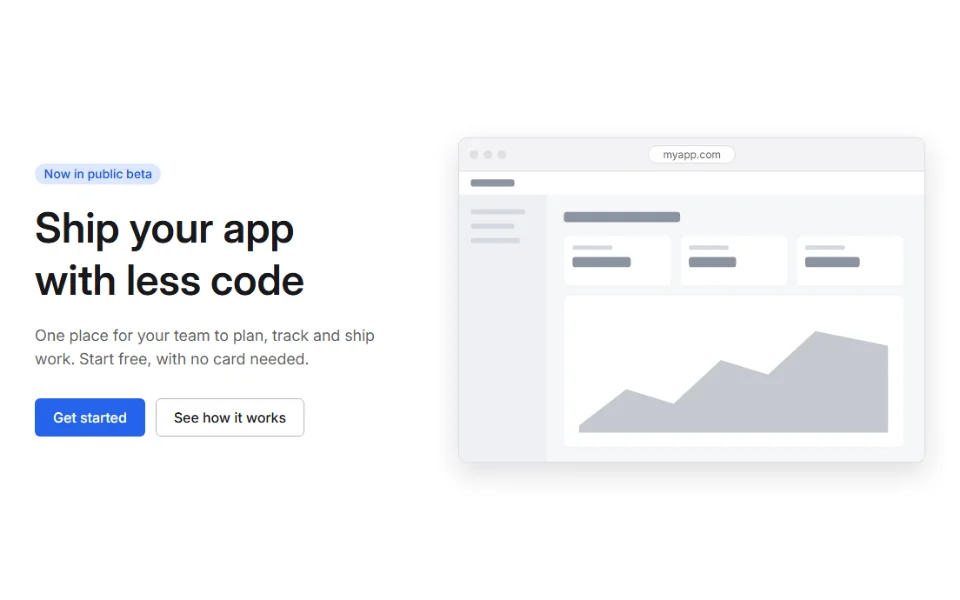
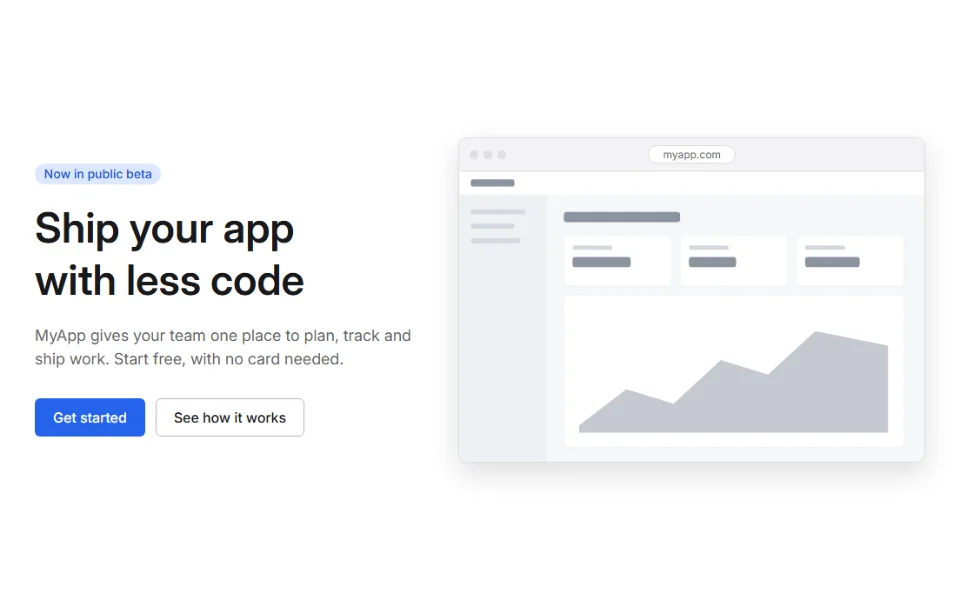
Hero: the design's sentence and column, so it never breaks at the sentence
The default sentence is the design's ("{{ProjectName}} gives your team one place to plan..."):
the old one filled exactly one line between 1024 and 1250px, so "Start free" read as a new
line. The split layout's sentence keeps to 28rem, as the design. Settings' values can name the
project with {{ProjectName}}.

Changed region(s): [[0.0312, 0.54, 0.4375, 0.63]]

diff --git a/src/IzzyBlazor.Generation/Generator.cs b/src/IzzyBlazor.Generation/Generator.cs
@@ -192,8 +192,10 @@ public static class Generator
             ["HostName"] = Names.HostName(project.Name),
             ["IzzyBlazorVersion"] = IzzyBlazorVersion,
         };
+        // A setting's value can name the project ("{{ProjectName}} gives your team..."), not other settings.
+        var named = new Dictionary<string, string>(tokens, StringComparer.Ordinal);
         foreach (var p in manifest.Parameters.Where(p => p.Type != ParameterType.Bool))
-            tokens[p.Name] = Convert.ToString(values[p.Name], CultureInfo.InvariantCulture)!;
+            tokens[p.Name] = TemplateText.ReplaceTokens(Convert.ToString(values[p.Name], CultureInfo.InvariantCulture)!, named);
         return tokens;
     }
 
